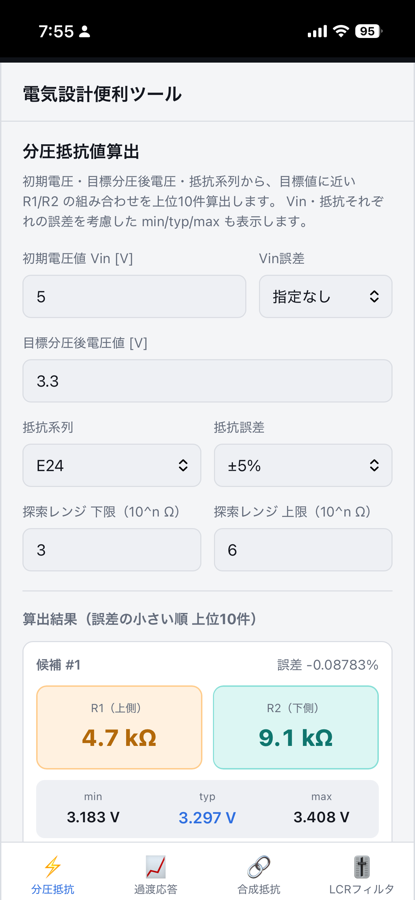
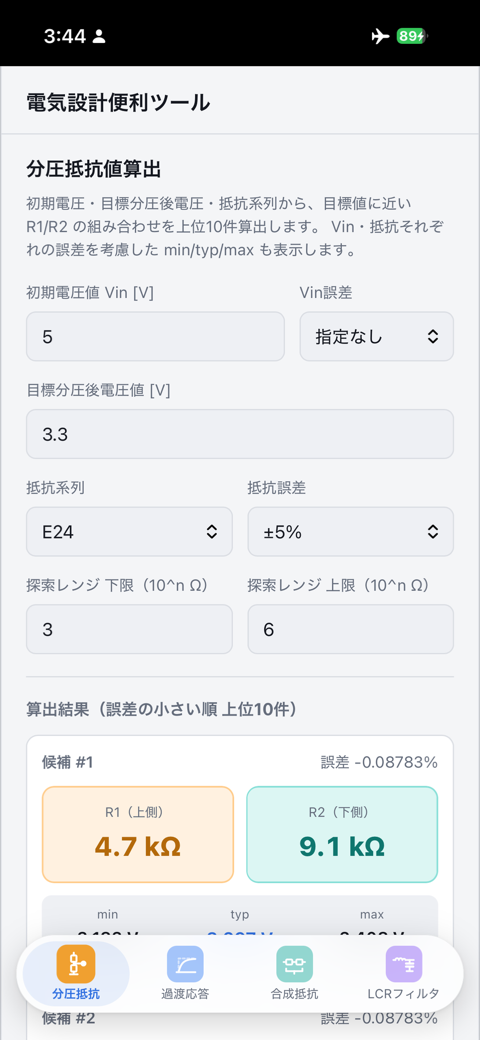
Update Electrical Design Tools screenshots to ver.1.1

diff --git a/public/apps/electrical-tools/index.html b/public/apps/electrical-tools/index.html
@@ -30,7 +30,7 @@
 
     <section class="section detail-section" aria-labelledby="shots">
       <div class="section-heading"><p class="eyebrow">SCREENSHOTS</p><h2 id="shots">画面イメージ</h2></div>
-      <div class="gallery portrait" tabindex="0" aria-label="スクリーンショット（横にスクロールできます）"><figure><img src="/assets/electrical-tools/iph-1.png" alt="分圧抵抗値算出の画面。初期電圧と目標電圧から、抵抗の候補と誤差が表示されている" width="415" height="900" loading="lazy"><figcaption>分圧抵抗値算出</figcaption></figure><figure><img src="/assets/electrical-tools/iph-2.png" alt="CRステップ応答の画面。時定数と、指定時間の電圧、充電カーブのグラフが表示されている" width="415" height="900" loading="lazy"><figcaption>RC過渡応答</figcaption></figure><figure><img src="/assets/electrical-tools/iph-3.png" alt="RC過渡応答のグラフとスライダー。任意の経過時間の電圧を確認できる" width="415" height="900" loading="lazy"><figcaption>経過時間ごとの電圧を確認</figcaption></figure><figure><img src="/assets/electrical-tools/iph-4.png" alt="合成抵抗値算出の画面。3個の抵抗を並列にした場合の公称値・最小値・最大値が表示されている" width="415" height="900" loading="lazy"><figcaption>合成抵抗値算出</figcaption></figure><figure><img src="/assets/electrical-tools/iph-5.png" alt="LCRフィルタ算出の画面。時定数とカットオフ周波数、周波数特性のグラフが表示されている" width="415" height="900" loading="lazy"><figcaption>LCRフィルタ算出</figcaption></figure></div>
+      <div class="gallery portrait" tabindex="0" aria-label="スクリーンショット（横にスクロールできます）"><figure><img src="/assets/electrical-tools/iph-1.png" alt="分圧抵抗値算出の画面。初期電圧と目標電圧から、抵抗の候補と誤差が表示されている" width="480" height="1040" loading="lazy"><figcaption>分圧抵抗値算出</figcaption></figure><figure><img src="/assets/electrical-tools/iph-2.png" alt="RC過渡応答の画面。時定数と選択した時刻の電圧、充電カーブのグラフと時間スライダーが表示されている" width="480" height="1040" loading="lazy"><figcaption>RC過渡応答</figcaption></figure><figure><img src="/assets/electrical-tools/iph-3.png" alt="合成抵抗値算出の画面。2個の抵抗を並列にした場合の公称値・最小値・最大値が表示されている" width="480" height="1040" loading="lazy"><figcaption>合成抵抗値算出</figcaption></figure><figure><img src="/assets/electrical-tools/iph-4.png" alt="LCRフィルタ算出の画面。時定数とカットオフ周波数、周波数特性のグラフが表示されている" width="480" height="1040" loading="lazy"><figcaption>LCRフィルタ算出</figcaption></figure></div>
     </section>
 
     <section class="section detail-section alt" aria-labelledby="features">

diff --git a/README.md b/README.md
@@ -30,7 +30,7 @@ python3 -m http.server 8788 --directory public
 
 `public/apps/<アプリ名>/index.html` に1アプリ1ページです（`knit2` / `knit` / `tap-and-match` / `electrical-tools`）。新しいアプリは `public/apps/knit2/` をコピーして中身を差し替えます。
 
-- スクリーンショット: `public/assets/<アプリ名>/` の画像を同じファイル名で差し替え（Knit2: `ss-1.png`〜`ss-6.png`、Knit: `iph-1.png`〜`iph-4.png`、Tap and Match: `iph-1.png`〜`iph-3.png`、電気設計便利ツール: `iph-1.png`〜`iph-5.png`）。枚数や説明文（`figcaption` と `alt`）を変える場合は、`index.html` の `gallery` 内を編集
+- スクリーンショット: `public/assets/<アプリ名>/` の画像を同じファイル名で差し替え（Knit2: `ss-1.png`〜`ss-6.png`、Knit: `iph-1.png`〜`iph-4.png`、Tap and Match: `iph-1.png`〜`iph-3.png`、電気設計便利ツール: `iph-1.png`〜`iph-4.png`）。枚数や説明文（`figcaption` と `alt`）を変える場合は、`index.html` の `gallery` 内を編集
 - 更新履歴: `index.html` の `history` に `<li>` を1件追加（新しいものを上に）
 - 使い方: `howto` のセクションを編集
 - 問い合わせフォームへのリンクは `/?app=Knit2#support` の形式で、対象アプリが自動で選択されます
